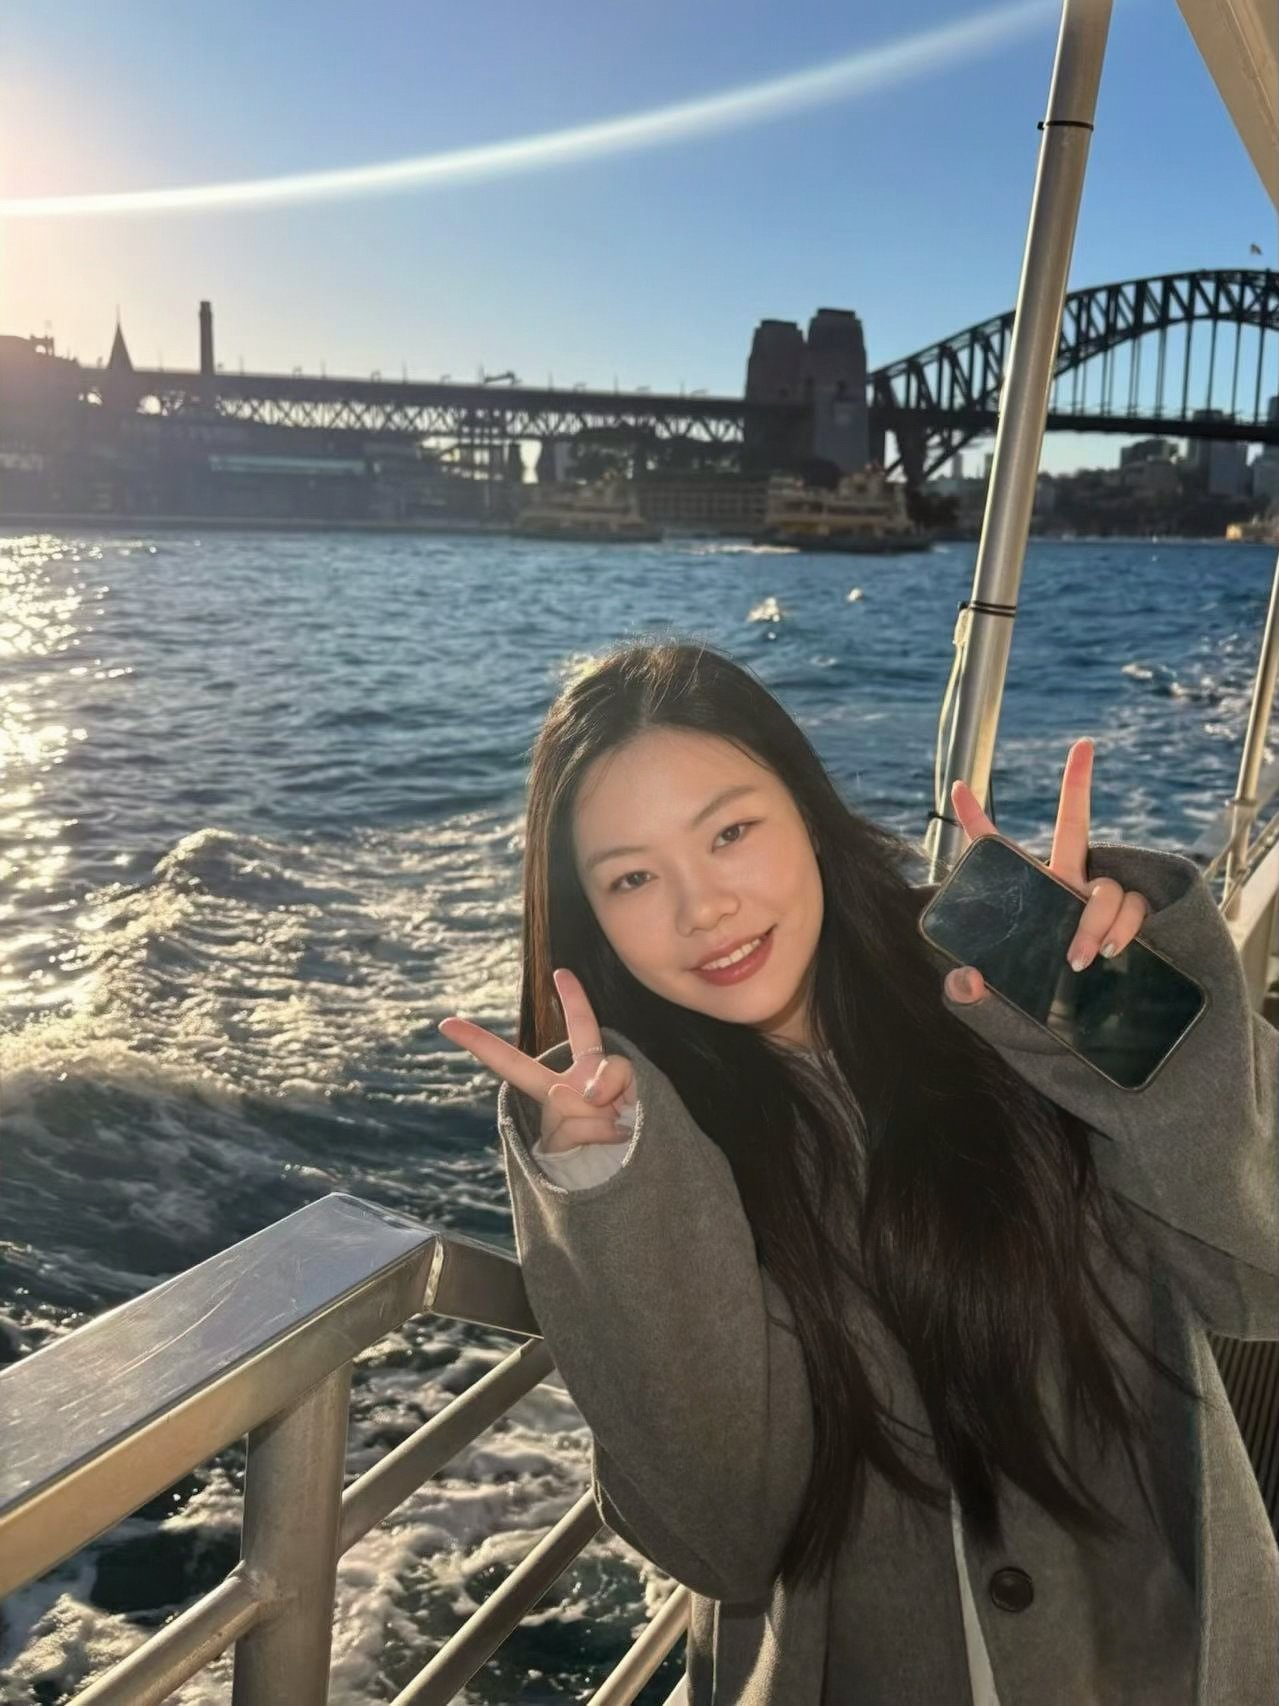
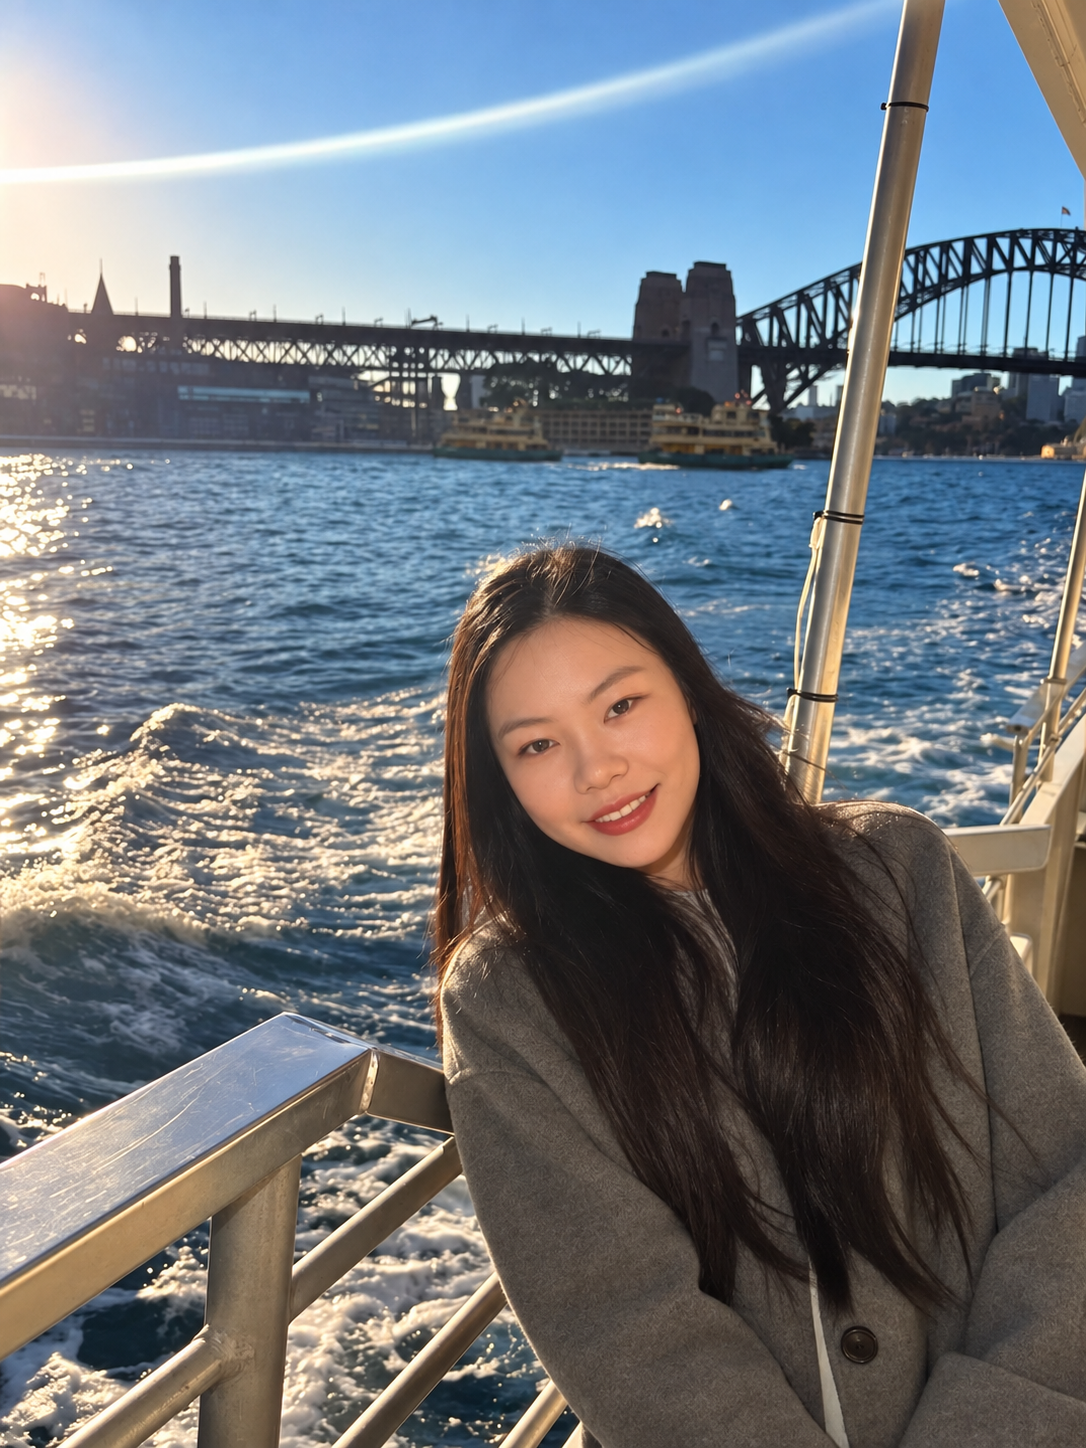
index work chips

diff --git a/index.html b/index.html
@@ -89,6 +89,13 @@
   .tile.pic .meta { margin:0; }
   .tile.pic .desc { font-size:14px; line-height:1.5; color:var(--color-fg-secondary); max-width:52ch; text-wrap:pretty; }
   .tile.pic .cap .arrow { position:static; width:auto; height:auto; flex:none; opacity:1; transform:none; font-size:18px; line-height:1; background:none; color:var(--color-fg-primary); border:0; padding:0 2px 3px 0; transition:none; }
+  .tile.pic .chips { position:absolute; left:12px; right:12px; bottom:12px; z-index:1; display:flex; flex-wrap:wrap; justify-content:flex-end; gap:6px; pointer-events:none; font-size:11px; line-height:1.2; letter-spacing:.05em;
+                     transition:opacity .22s ease .12s, transform .4s cubic-bezier(.2,0,0,1) .12s; }
+  .tile.pic .cap { z-index:2; } .tile::after { z-index:3; }
+  .tile.pic .chips > span { display:inline-flex; align-items:center; padding:5px 10px; border-radius:999px; white-space:nowrap; color:var(--color-fg-primary);
+                            background:color-mix(in srgb, var(--color-bg-page) 84%, transparent); border:1px solid var(--color-border-subtle);
+                            -webkit-backdrop-filter:blur(12px) saturate(140%); backdrop-filter:blur(12px) saturate(140%); }
+  @supports not ((backdrop-filter:blur(1px)) or (-webkit-backdrop-filter:blur(1px))) { .tile.pic .chips > span { background:var(--color-bg-page); } }
   .lab-block { --r:28px; --pad:16px; grid-column:1 / -1; display:grid; grid-template-columns:repeat(4, minmax(0, 1fr)); gap:var(--pad); padding:var(--pad);
                border-radius:var(--r); corner-shape:squircle; background:var(--color-bg-surface); border:1px solid var(--color-border-subtle); }
   .lab-block > a { position:relative; min-width:0; border-radius:calc(var(--r) - var(--pad)); corner-shape:squircle; text-decoration:none; color:inherit; border:1px solid var(--color-border-subtle);
@@ -124,6 +131,8 @@
                              .lab-intro { padding-right:44px; } }
   @media (hover:hover) {
     .tile.pic:not(:hover):not(:focus-visible) .cap { opacity:0; transform:translateY(10px) scale(.98); }
+    .tile.pic:hover .chips, .tile.pic:focus-visible .chips { opacity:0; transform:translateY(-4px); transition:opacity .14s ease, transform .3s cubic-bezier(.2,0,0,1); }
+    .tile.pic:hover .cap, .tile.pic:focus-visible .cap { transition-delay:.06s; }
     .tile.pic:hover, .tile.pic:focus-visible { border-color:var(--ring); box-shadow:0 0 0 1px var(--ring), 0 22px 44px -22px var(--glass-shadow); }
   }
   @media (hover:hover) {
@@ -136,7 +145,7 @@
   }
   .js .reveal { opacity:0; translate:0 14px; } .js .reveal.in { opacity:1; translate:0 0; transition:opacity .7s ease var(--d, 0ms), translate .7s cubic-bezier(.2,.7,.2,1) var(--d, 0ms); }
   .js .tile.reveal.in { transition:opacity .7s ease var(--d, 0ms), translate .7s cubic-bezier(.2,.7,.2,1) var(--d, 0ms), transform .4s cubic-bezier(.2,.7,.2,1), box-shadow .4s cubic-bezier(.2,.7,.2,1), border-color .2s ease; }
-  @media (prefers-reduced-motion: reduce) { html { scroll-behavior:auto; } .tile, .tile .cover, .tile .arrow, .tile .cap { transition:none !important; } .tile:hover { transform:none; } .js .reveal { opacity:1; translate:none; } }
+  @media (prefers-reduced-motion: reduce) { html { scroll-behavior:auto; } .tile, .tile .cover, .tile .arrow, .tile .cap, .tile .chips { transition:none !important; } .tile:hover { transform:none; } .js .reveal { opacity:1; translate:none; } }
   @media (max-width:960px) {
     .bento { grid-template-columns:repeat(2, minmax(0, 1fr)); grid-template-rows:480px 290px 290px auto;
              grid-template-rows:calc((100cqw - 24px) / 2 * 1.3) calc((100cqw - 24px) / 2 * .8) calc((100cqw - 24px) / 2 * .8) auto; }
@@ -144,6 +153,9 @@
   }
   @media (max-width:720px) { .bento { grid-template-columns:minmax(0, 1fr); grid-template-rows:none; grid-auto-rows:auto; gap:16px; } .tile.large, .tile.tall, .tile.small { grid-column:auto; grid-row:auto; } .tile .media { flex:none; aspect-ratio:3/2; } .tile.pic.large .media { aspect-ratio:4/3; } .tile.pic .meta { white-space:normal; line-height:1.45; } .work { padding-bottom:96px; }
                              .tile.pic .cap { position:static; opacity:1 !important; transform:none !important; border:0; border-radius:0; box-shadow:none; padding:16px 20px 20px; } }
+  @media (max-width:1100px) { .tile.pic .chips { gap:5px; font-size:10px; } .tile.pic .chips > span { padding:4px 9px; } }
+  @media (hover:none) and (min-width:721px) { .tile.pic .chips { top:12px; bottom:auto; } }
+  @media (max-width:720px) { .tile.pic .chips { position:static; order:1; justify-content:flex-start; padding:14px 20px 0; opacity:1 !important; transform:none !important; } .tile.pic .cap { order:2; padding-top:12px; } }
 
 </style>
 </head>
@@ -179,10 +191,10 @@
 <section class="work" id="work">
   <h2 class="reveal">Work</h2>
   <div class="bento">
-    <a data-cursor="Read case study" class="tile pic large reveal" href="gloss-vault.html" style="--d:0ms"><span class="media"><video class="cover" muted loop playsinline preload="metadata" poster="assets/img/work/gloss-vault/cover.jpg" width="1800" height="1200" aria-hidden="true" disablepictureinpicture><source src="assets/video/work/gloss-vault/cover.mp4" type="video/mp4"><source src="assets/video/work/gloss-vault/cover.webm" type="video/webm"></video></span><span class="cap"><span class="txt"><h3>GLOSS Vault</h3><span class="more"><span class="mono meta">Ironfly · 2024–now · Sole designer</span><span class="desc">An Australian personal-finance vault. 15+ features across desktop and mobile, light and dark, handed off to the engineering team.</span></span></span><span class="arrow" aria-hidden="true">↗</span></span></a>
-    <a data-cursor="Read case study" class="tile pic tall alt reveal" href="b2b-pay-later.html" style="--d:80ms; --focus:50% 18%"><span class="media"><video class="cover" muted loop playsinline preload="metadata" poster="assets/img/work/b2b-pay-later/cover.jpg" width="1086" height="1448" aria-hidden="true" disablepictureinpicture><source src="assets/video/work/b2b-pay-later/cover.mp4" type="video/mp4"><source src="assets/video/work/b2b-pay-later/cover.webm" type="video/webm"></video></span><span class="cap"><span class="txt"><h3>B2B pay-later app</h3><span class="more"><span class="mono meta">Client project · 2026 · name withheld</span><span class="desc">From PRD to 110+ dev-ready screens, with KYB cut from six steps to two.</span></span></span><span class="arrow" aria-hidden="true">↗</span></span></a>
-    <a data-cursor="View project" class="tile pic small cogniss reveal" href="cogniss.html" style="--d:140ms"><span class="media"><img class="cover" src="assets/img/work/cogniss/cover.jpg" width="2000" height="1360" alt="" loading="lazy" decoding="async"></span><span class="cap"><span class="txt"><h3>Cogniss</h3><span class="more"><span class="mono meta">2024 · Product design intern</span><span class="desc">Prototype discussions with the team, high-fidelity prototypes, design audits, product documentation and usability tests.</span></span></span><span class="arrow" aria-hidden="true">↗</span></span></a>
-    <a data-cursor="View project" class="tile pic small alt reveal" href="bilibili-live.html" style="--d:200ms; --zoom:1.3; --focus:44% 50%"><span class="media"><img class="cover" src="assets/img/work/bilibili-live/cover.jpg" width="2000" height="1575" alt="" loading="lazy" decoding="async"></span><span class="cap"><span class="txt"><h3>bilibili</h3><span class="more"><span class="mono meta">2021 · UI/UX intern</span><span class="desc">An iterative redesign of bilibili’s streamer app: a shorter path to going live, a regrouped dashboard, and a component library the team shared.</span></span></span><span class="arrow" aria-hidden="true">↗</span></span></a>
+    <a data-cursor="Read case study" class="tile pic large reveal" href="gloss-vault.html" style="--d:0ms"><span class="media"><video class="cover" muted loop playsinline preload="metadata" poster="assets/img/work/gloss-vault/cover.jpg" width="1800" height="1200" aria-hidden="true" disablepictureinpicture><source src="assets/video/work/gloss-vault/cover.mp4" type="video/mp4"><source src="assets/video/work/gloss-vault/cover.webm" type="video/webm"></video></span><span class="cap"><span class="txt"><h3>GLOSS Vault</h3><span class="more"><span class="mono meta">Ironfly · 2024–now · Sole designer</span><span class="desc">An Australian personal-finance vault. 15+ features across desktop and mobile, light and dark, handed off to the engineering team.</span></span></span><span class="arrow" aria-hidden="true">↗</span></span><span class="chips mono"><span>Design system</span><span>Design tokens</span><span>Dark mode</span><span>User flows</span><span>Engineering handoff</span></span></a>
+    <a data-cursor="Read case study" class="tile pic tall alt reveal" href="b2b-pay-later.html" style="--d:80ms; --focus:50% 18%"><span class="media"><video class="cover" muted loop playsinline preload="metadata" poster="assets/img/work/b2b-pay-later/cover.jpg" width="1086" height="1448" aria-hidden="true" disablepictureinpicture><source src="assets/video/work/b2b-pay-later/cover.mp4" type="video/mp4"><source src="assets/video/work/b2b-pay-later/cover.webm" type="video/webm"></video></span><span class="cap"><span class="txt"><h3>B2B pay-later app</h3><span class="more"><span class="mono meta">Client project · 2026 · name withheld</span><span class="desc">From PRD to 110+ dev-ready screens, with KYB cut from six steps to two.</span></span></span><span class="arrow" aria-hidden="true">↗</span></span><span class="chips mono"><span>Phased delivery</span><span>Back office</span><span>Design system</span></span></a>
+    <a data-cursor="View project" class="tile pic small cogniss reveal" href="cogniss.html" style="--d:140ms"><span class="media"><img class="cover" src="assets/img/work/cogniss/cover.jpg" width="2000" height="1360" alt="" loading="lazy" decoding="async"></span><span class="cap"><span class="txt"><h3>Cogniss</h3><span class="more"><span class="mono meta">2024 · Product design intern</span><span class="desc">Prototype discussions with the team, high-fidelity prototypes, design audits, product documentation and usability tests.</span></span></span><span class="arrow" aria-hidden="true">↗</span></span><span class="chips mono"><span>Hi-fi prototypes</span><span>Design audit</span><span>Documentation</span><span>Usability testing</span></span></a>
+    <a data-cursor="View project" class="tile pic small alt reveal" href="bilibili-live.html" style="--d:200ms; --zoom:1.3; --focus:44% 50%"><span class="media"><img class="cover" src="assets/img/work/bilibili-live/cover.jpg" width="2000" height="1575" alt="" loading="lazy" decoding="async"></span><span class="cap"><span class="txt"><h3>bilibili</h3><span class="more"><span class="mono meta">2021 · UI/UX intern</span><span class="desc">An iterative redesign of bilibili’s streamer app: a shorter path to going live, a regrouped dashboard, and a component library the team shared.</span></span></span><span class="arrow" aria-hidden="true">↗</span></span><span class="chips mono"><span>Information architecture</span><span>Component library</span><span>User testing</span></span></a>
     <div class="lab-block reveal" style="--d:0ms">
       <a class="spec motion w2" href="#lab" aria-haspopup="dialog" aria-controls="lab" data-go="motion" data-cursor="Try it live" aria-label="Motion, open in the AI Lab"><span class="ms" aria-hidden="true"><span class="th"></span><i></i><i></i><i></i></span><span class="mono lbl" aria-hidden="true">Motion</span></a>
       <a class="spec calendar" href="#lab" aria-haspopup="dialog" aria-controls="lab" data-go="colour-calendar" data-cursor="Before / after" aria-label="Payment calendar, before and after, open in the AI Lab"><span class="mono lbl" aria-hidden="true">Payment calendar</span></a>
